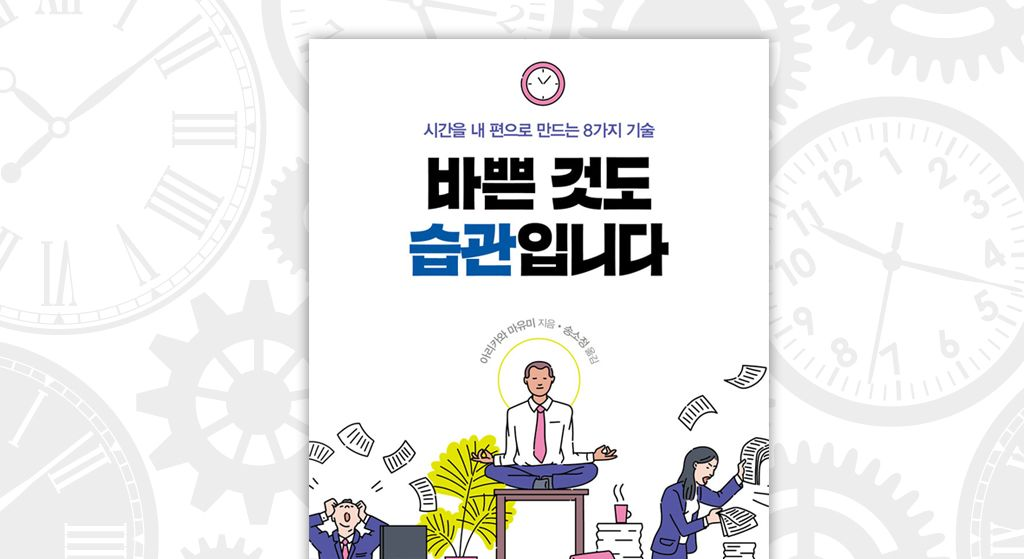
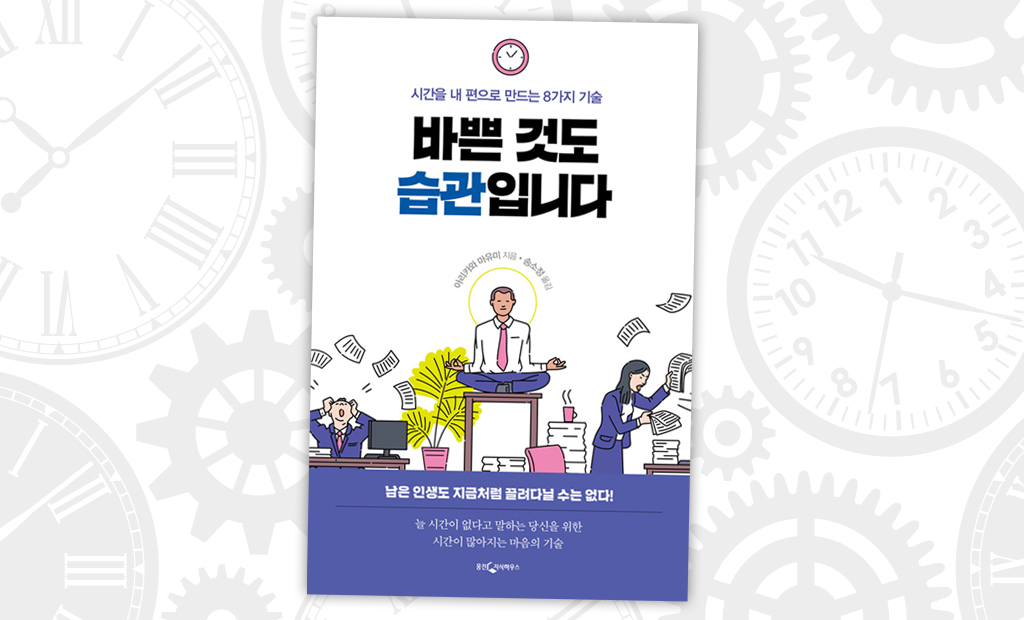
feature image added

Changed region(s): [[0.2812, 0.0, 0.7812, 1.0]]

diff --git a/themes/paper-mod/assets/css/common/post-entry.css b/themes/paper-mod/assets/css/common/post-entry.css
@@ -65,7 +65,7 @@
     overflow: hidden;
     display: -webkit-box;
     -webkit-box-orient: vertical;
-    -webkit-line-clamp: 2;
+    -webkit-line-clamp: 3;
 }
 
 .entry-footer {

diff --git a/content/review/2019-01-13-v-i-p-2017.md b/content/review/2019-01-13-v-i-p-2017.md
@@ -9,17 +9,15 @@ categories:
   - 리뷰
 tags:
   - 영화
-  - 브이아이피
-  - 박훈정
-Summary: 긴장국면 속 넘어온 북측 VIP. 그리고 그 안에 들어있는 추악한 진실을 마주하는 남자들.
-
+cover:
+  image: '/images/featured/vip.jpg'
 ---
 신세계 이후로 박훈정 감독의 작품이 3편 나온 것으로 안다. 「대호」, 「마녀」, 그리고 「V.I.P.」  이다. 대호는 시놉시스부터 끌리지 않아서 앞으로도 안 볼 생각이고, 나머지 두 편은 시간이 난 김에 몰아서 봤다. (그래서 다음 리뷰는 마녀를 할 것이다.)
 
 박훈정 감독이 각본에만 참여한 다른 두 영화에서 느꼈던 것과 달리, 각본/감독을 병행한 이후에는 찰진 대사도 줄어들고 스토리도 힘이 점점 빠지는 것 같아 보인다. 여기서 「악마를 보았다」 가 얼마나 잔인했니, 「부당거래」 와 「신세계」가 가지는 힘은 어디서 있는지를 다 이야기하는 건 주제를 많이 벗어나지만, 오늘 이야기할 **「V.I.P.**」 와 비교될 선배격 작품들로 써먹을 예정이다.
 
 <p style="text-align: center;">
-  <span style="color: #ff6600; font-size: 0.8em;">※ 대놓고 언급하진 않겠지만, 스포일러가 소량 있을 수 있습니다. 감독의 전작품에 대한 언급도 있습니다.</span>
+  <span style="color: #ff6600; font-size: 0.9em;">※ 감독의 전작을 포함한 스포일러가 조금 있습니다.</span금
 </p>
 
 ## 논란이 될 만한 악행

diff --git a/content/tech/2019-03-18-windows-ssh-rsa-key-문제-해결.md b/content/tech/2019-03-18-windows-ssh-rsa-key-문제-해결.md
@@ -9,16 +9,18 @@ categories:
 tags:
   - SSH
   - permission
-
+cover:
+    image: "/images/featured/ssh-rsa.jpg"
 ---
 Windows Server 2016에서 OpenSSH 를 설치하고, cmd 에서 다음과 같이 RSA 키를 생성한다.
 
-<pre class="brush: bash; title: ; notranslate" title="">$ ssh-keygen -t rsa
-</pre>
+```bash
+$ ssh-keygen -t rsa
+```
 
 그러고 Public Key 를 SSH Server 에 위치한 authorized_keys 파일에 추가하고 접속을 시도하면?
 
-<pre class="brush: bash; title: ; notranslate" title="">$ ssh interp@192.168.0.30
+```bash
 @@@@@@@@@@@@@@@@@@@@@@@@@@@@@@@@@@@@@@@@@@@@@@@@@@@@@@@@@@@
 @ WARNING: UNPROTECTED PRIVATE KEY FILE! @
 @@@@@@@@@@@@@@@@@@@@@@@@@@@@@@@@@@@@@@@@@@@@@@@@@@@@@@@@@@@
@@ -27,7 +29,7 @@ It is required that your private key files are NOT accessible by others.
 This private key will be ignored.
 Load key "C:\\Users\\interp/.ssh/id_rsa": bad permissions
 interp@192.168.0.30's password:
-</pre>
+```
 
 오잉? 내 파일이 맞는데 이게 뭘까. Private Key 파일에 마우스 우클릭을 하고 봤더니 여러 사용자가 읽기 권한으로 걸려 있는 것을 확인할 수 있었다. 이건 아니다&#8230; 등록된 사용자를 전부 지우고 현재 사용자에게 모든 권한을 준 다음에, 확인을 눌러 권한 변경을 해 준다.
 

diff --git a/content/review/2022-05-09-simple-software.md b/content/review/2022-05-09-simple-software.md
@@ -11,14 +11,10 @@ tags:
 - 에세이
 preview: ''
 cover:
-  image: ''
+  image: '/images/featured/simple-software.jpg'
 
 ---
 [길벗 출판사](https://www.gilbut.co.kr/search/search_book_list#code=003000000&sub_code=003000000%3E003001000&view_mode=&list_size=15&order=date&descending=true&page=1 "길벗 출판사")에서 나온 비슷한 디자인의 책이 몇 권 있다. IT 교양서로 분류된 책 중에서 어두운 표지색을 내려오는 세로 제목 사이에 아이콘이 끼워져 있는데, '소프트웨어 장인', '소프트 스킬', '커리어 스킬' 세 권이 있다. 우연히도 세 권을 다 읽어봤는데, 이 시리즈 (?) 에서 한 권 더 추가된 '심플 소프트웨어' 를 최근에 도서관에서 빌려보게 되었다.
-
-<center>
-{{< figure src="https://gimg.gilbut.co.kr/book/BN002594/rn_view_BN002594.jpg" caption="심플 소프트웨어 표지" >}}
-</center>
 
 앞선 세 권과 비슷하게, 이 책 역시 작가의 블로그 내용을 엮어 낸 것이다. (https://www.codesimplicity.com/) 
 

diff --git a/content/drafts/2017-10-11-아임-더-보스-im-the-boss.md b/content/drafts/2017-10-11-아임-더-보스-im-the-boss.md
@@ -10,7 +10,7 @@ categories:
 tags:
   - 보드게임
   - 아임더보스
-
+draft: true
 ---
 <p style="text-align: justify;">
   플레이어는 서로 다른 조직의 투자자가 된다. 플레이어는 순서대로 돌아가며 다른 플레이어와 거래를 튼다. 거래에 참여한 플레이어만 거래에 걸린 배당금을 나눠 갖는다.
@@ -33,8 +33,6 @@ tags:
 </p>
 
 거래가 완료된 칸은 다시 거래할 수 없고, 해당 칸을 건너뛰어서 주사위 칸 만큼 이동한다. 모든 거래가 완료되거나, 열 번째 거래 이후에 발동되는 게임 종료 조건을 만족하면 게임이 끝나게 된다.
-
-&nbsp;
 
 ### 거래 시작
 

diff --git a/content/tech/2022-01-18-CKA-exam-review.md b/content/tech/2022-01-18-CKA-exam-review.md
@@ -8,6 +8,8 @@ tags:
     - exam
 categories:
     - tech
+cover:
+    image: "/images/featured/cka-exam.jpg"
 ---
 
 CKA (Certified K8s Administrator) 를 2021년 12월 말에 합격 통지를 받았다. 합격을 받고 나서 정리한 팁을 공유하고자 한다.

diff --git a/content/tech/2022-02-04-kakao-naver-email-pop3-imap.md b/content/tech/2022-02-04-kakao-naver-email-pop3-imap.md
@@ -9,6 +9,8 @@ tags:
     - iPhone
 categories:
     - tech
+cover:
+    image: "/images/2022-02-04-kakao-email/feature-image.jpg"
 ---
 
 
